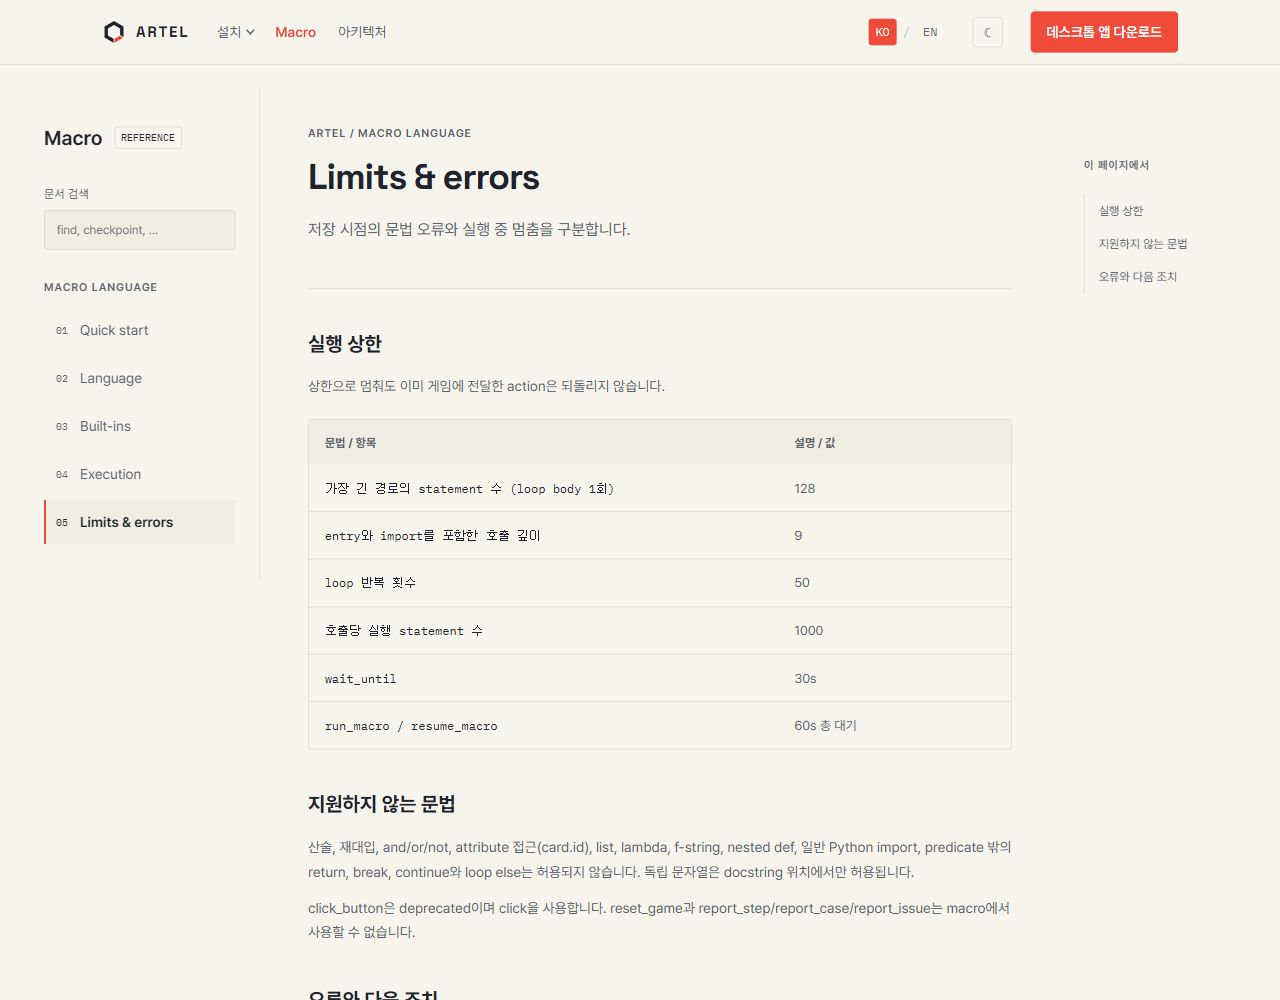
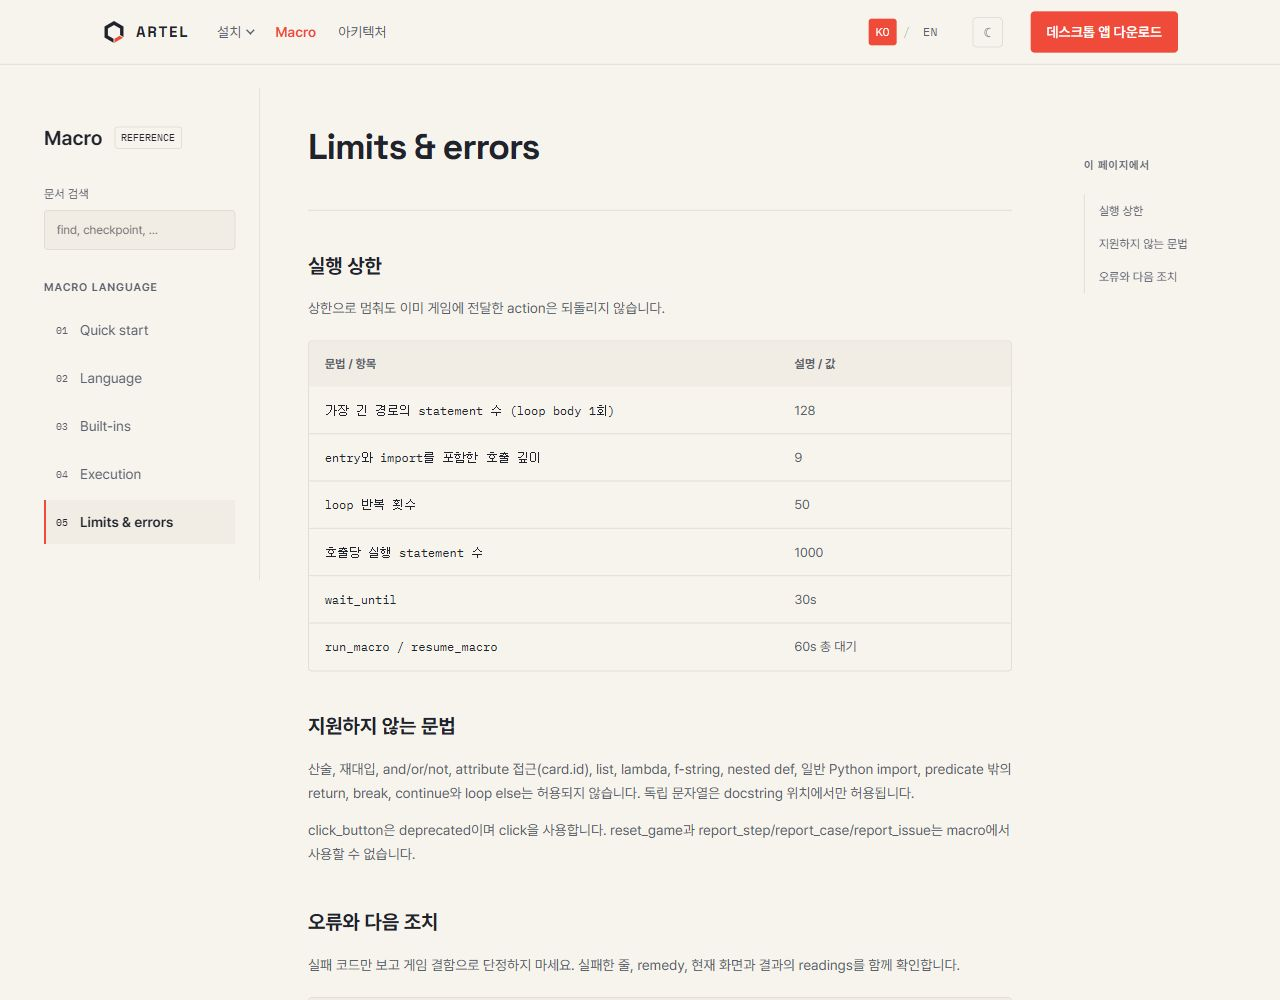
fix(docs): 제목을 반복하는 소개 문구를 삭제한다

diff --git a/src/macro/content.ts b/src/macro/content.ts
@@ -15,16 +15,16 @@ export function macroContent(locale: Locale): Record<MacroPageId, MacroPage> {
   return {
     'quick-start': {
       title: 'Quick start',
-      description: tr('반복할 게임 조작을 하나의 macro로 작성하고 등록합니다.', 'Write and register a reusable sequence of game actions.'),
+      description: tr('Macro 작성, 등록, 실행 예제', 'Macro authoring, registration and execution examples'),
       sections: [
-        section('overview', tr('Macro의 실행 방식', 'How macros run'), [tr('Macro는 Python처럼 쓰는 제한된 DSL입니다. Python 코드로 실행하지 않으며, Python 표준 라이브러리를 사용할 수 없습니다.', 'A macro is a restricted DSL with Python-like syntax. It does not execute as Python and cannot use the Python standard library.'), tr('selector 경로, 객체 이름, label, scene과 member key는 예시이므로 연결한 게임의 실제 값으로 바꾸세요. 문법 검증이 게임에서의 성공을 보장하지는 않습니다.', 'Selector paths, object names, labels, scenes and member keys are illustrative: replace them with values from your connected game. Syntax validation does not guarantee success in a game.')]),
+        section('overview', tr('Macro의 실행 방식', 'How macros run'), [tr('Macro는 Python처럼 쓰는 제한된 DSL입니다. Python 코드로 실행하지 않으며, Python 표준 라이브러리를 사용할 수 없습니다.', 'A macro is a restricted DSL with Python-like syntax. It does not execute as Python and cannot use the Python standard library.'), tr('selector 경로, 객체 이름, label, scene과 member key는 예시이므로 연결한 게임의 실제 값으로 바꾸세요.', 'Selector paths, object names, labels, scenes and member keys are illustrative: replace them with values from your connected game.')]),
         section('first-macro', tr('첫 macro 작성', 'Write your first macro'), [tr('이름은 open_inventory로 지정합니다. 같은 이름의 entry def와 -> None이 필요합니다. 첫 docstring은 등록에 필수이며 검색과 선택에 사용되는 summary가 됩니다.', 'Name this macro open_inventory. The entry def must have the same name and return -> None. Its opening docstring is required for registration and becomes the summary used for discovery and selection.')], examples.open_inventory),
         section('register', tr('초안 저장과 등록', 'Save and register'), [tr('QA agent의 write_macro에 name과 source를 전달하면 draft를 저장하고 문법을 확인합니다. 이 단계에서는 게임을 조작하지 않습니다. register_macro로 등록해야 run_macro가 호출할 수 있습니다.', 'The QA agent tool write_macro accepts name and source, stores a draft and checks syntax without acting on the game. Register it with register_macro before calling run_macro.'), tr('수정은 edit_macro → register_macro 순서입니다. draft만 수정하면 기존 등록 버전이 계속 실행됩니다. screens를 지정할 때는 scene 이름 대신 content map의 screen ID를 사용합니다.', 'Edit with edit_macro, then register_macro. Changing only a draft leaves the previously registered version active. The screens argument uses content-map screen IDs, not scene names.')]),
         section('run', tr('실행과 결과 확인', 'Run and inspect'), [tr('run_macro의 name에 open_inventory를 지정하고, 이 예제처럼 parameter가 없으면 arguments는 빈 객체로 전달합니다. parameter가 있다면 이름별 값을 전달하고 object에는 좌표나 #id 대신 selector를 사용합니다.', 'Call run_macro with name open_inventory and an empty arguments object for this parameterless example. For parameterized macros, supply values by name; object parameters take selectors, not coordinates or #ids.'), tr('결과에서 실행된 action, 건너뛴 branch, flag와 실패 위치를 확인합니다. PAUSED이면 화면을 확인하고 resume_macro의 proceed를 true로 전달해 계속하거나 false로 중단합니다.', 'Inspect actions sent, skipped branches, flags and the failure location. For PAUSED, inspect the screen, then use resume_macro with proceed true to continue or false to stop.')]),
       ],
     },
     language: {
-      title: 'Language', description: tr('타입, 조건, 반복, helper와 import의 문법을 확인합니다.', 'Syntax for types, conditions, loops, helpers and imports.'),
+      title: 'Language', description: tr('Macro 타입, 조건문, 반복문, helper, import 문법', 'Syntax for types, conditions, loops, helpers and imports.'),
       sections: [
         section('types', tr('선언과 타입', 'Declarations and types'), [tr('모든 parameter와 대입에는 타입을 명시합니다. 선언할 수 있는 타입은 아래와 같습니다. string은 str과 다릅니다. entry와 action helper는 -> None, predicate는 -> bool을 사용합니다.', 'Every parameter and assignment needs an explicit type. The declarable types are listed below: use string, not str. Entries and action helpers return -> None; predicates return -> bool.'), tr('이름은 한 번만 대입합니다. 대입의 오른쪽에는 find, selector, literal 또는 reader 호출을 사용할 수 있습니다. reader로 읽어 저장한 값은 그 시점의 값이며 자동 갱신되지 않습니다.', 'Names are assigned once. Assignment values may be find, selector, a literal or a reader call. A bound reader value is a snapshot and does not refresh automatically.')], examples.check_damage, grammar.types.map(t => [t, t === 'object' ? tr('게임 객체를 가리키는 target', 'A game-object target') : tr('타입을 명시한 값', 'An explicitly typed value')])),
         section('conditions', tr('조건과 비교', 'Conditions and comparisons'), [tr('조건은 비교 하나, bool reader, predicate 또는 ask 호출 하나입니다. and/or/not과 chained comparison은 허용되지 않습니다. and가 필요하면 require를 나눠 쓰고, or는 predicate의 여러 if로 표현합니다.', 'A condition is one comparison, a boolean reader, a predicate or ask. and/or/not and chained comparisons are not supported. Split conjunctions into separate require calls; express alternatives through multiple if branches in a predicate.'), tr('서로 다른 shape의 비교는 false가 아니라 오류입니다. int와 float는 모두 number로 비교합니다. object의 같음은 객체 identity 기준입니다. 연속값은 소수점 반올림의 영향을 받으므로 == 대신 범위를 검사하세요.', 'Comparing different shapes is an error, not false. int and float both compare as numbers. Object equality uses object identity. For continuous values, check a range instead of == because values are rounded.')], undefined, grammar.operators.map(row => [row.shape, row.operators.join('  ') || tr('비교 불가', 'No comparisons')])),
@@ -35,7 +35,7 @@ export function macroContent(locale: Locale): Record<MacroPageId, MacroPage> {
       ],
     },
     'built-ins': {
-      title: 'Built-ins', description: tr('객체 탐색, 상태 읽기, 게임 조작의 signature를 확인합니다.', 'Signatures for target lookup, state readers and game actions.'),
+      title: 'Built-ins', description: tr('Macro 객체 탐색, reader, action reference', 'Signatures for target lookup, state readers and game actions.'),
       sections: [
         section('targets', tr('객체 탐색', 'Target lookup'), [tr('find는 keyword만 받으며 label 또는 name 중 하나 이상이 필요합니다. label은 표시 텍스트, name은 selector의 마지막 segment, under는 경로 prefix입니다. 0개 또는 여러 객체가 일치하면 실행이 멈춥니다.', 'find accepts keywords only and requires label or name. label matches visible text; name matches the last selector segment; under narrows by path prefix. Zero or multiple matches stop execution.'), tr('selector는 게임의 hierarchy path를 받습니다. find_all은 loop 또는 Jev context에서 사용하며 일반 변수에 list로 저장할 수 없습니다. under는 ask/decide context에서 해당 객체와 하위 객체를 포함합니다.', 'selector takes a game hierarchy path. find_all is available in loops or Jev context, not as a list assignment. under includes an object and its descendants in ask/decide context.')], undefined, [
           ['find(label=..., name=..., under=...)', 'object'], ['selector("hierarchy/path")', 'object'], ['find_all(label=..., name=..., under=...)', tr('loop / Jev context 전용', 'Loops / Jev context only')], ['under("path") / under(target)', 'Jev context'],
@@ -45,7 +45,7 @@ export function macroContent(locale: Locale): Record<MacroPageId, MacroPage> {
       ],
     },
     execution: {
-      title: 'Execution', description: tr('검증, 기다리기, 일시 중지와 모델의 판단을 구성합니다.', 'Compose checks, waits, pauses and model decisions.'),
+      title: 'Execution', description: tr('require, wait_until, checkpoint, ask, decide 실행 규칙', 'Execution rules for require, wait_until, checkpoint, ask and decide'),
       sections: [
         section('checks', tr('검증과 기다리기', 'Checks and waiting'), [tr('require(condition, "remedy")는 현재 조건을 확인하고 false이면 멈춥니다. remedy는 agent가 실패 후 무엇을 해야 하는지 설명하는 필수 문자열입니다.', 'require(condition, "remedy") checks the current condition and stops if false. The required remedy string tells the agent what to do after failure.'), tr(`wait_until(condition, seconds, "remedy")는 즉시 확인한 뒤 새 pulse마다 다시 확인합니다. seconds는 0보다 크고 ${l.MAX_WAIT_PER_STATEMENT_SECONDS} 이하인 숫자 literal입니다. ask는 조건으로 쓸 수 없습니다. 한 run/resume 호출의 총 대기 상한은 ${l.MAX_WAIT_PER_CALL_SECONDS}초입니다.`, `wait_until(condition, seconds, "remedy") checks immediately, then on each new pulse. seconds must be a numeric literal greater than zero and at most ${l.MAX_WAIT_PER_STATEMENT_SECONDS}. ask is not allowed here. Total waiting per run/resume call is capped at ${l.MAX_WAIT_PER_CALL_SECONDS} seconds.`)], examples.open_inventory),
         section('checkpoint', tr('중지와 판정 요청', 'Pauses and verdict requests'), [tr('checkpoint("message")는 실패가 아닌 PAUSED를 반환합니다. resume_macro(proceed=true)는 저장된 binding을 유지하고 다음 줄부터 계속하며, false는 추가 조작 없이 중단합니다.', 'checkpoint("message") returns PAUSED rather than failure. resume_macro with proceed=true preserves bindings and continues at the next line; false stops without further actions.'), tr('flag("message")는 관찰 내용을 남기고 ask_verdict("expected")는 현재 step의 판정이 필요함을 알립니다. macro가 verdict를 직접 결정하거나 report_step/report_case/report_issue를 호출하지는 않습니다.', 'flag("message") records an observation; ask_verdict("expected") requests judgment for the current step. Macros do not decide verdicts or call report_step/report_case/report_issue.')], examples.inspect_inventory),
@@ -55,7 +55,7 @@ export function macroContent(locale: Locale): Record<MacroPageId, MacroPage> {
       ],
     },
     limits: {
-      title: 'Limits & errors', description: tr('저장 시점의 문법 오류와 실행 중 멈춤을 구분합니다.', 'Distinguish syntax rejection from runtime failures.'),
+      title: 'Limits & errors', description: tr('Macro 실행 상한과 오류 코드', 'Macro execution limits and error codes'),
       sections: [
         section('budgets', tr('실행 상한', 'Execution budgets'), [tr('상한으로 멈춰도 이미 게임에 전달한 action은 되돌리지 않습니다.', 'Reaching a limit does not undo actions already sent to the game.')], undefined, [
           [tr('가장 긴 경로의 statement 수 (loop body 1회)', 'Statements on longest path (loop body counted once)'), String(l.MAX_STATEMENTS)],

diff --git a/src/styles/macro-reference.css b/src/styles/macro-reference.css
@@ -29,11 +29,9 @@
 .macro-docs__rail nav a span { font: 10px var(--font-mono); }
 .macro-docs__rail nav a[aria-current="page"] { border-left-color: var(--doc-accent); color: var(--doc-text); font-weight: 600; background: var(--doc-raised); }
 .macro-docs__rail nav a:hover, .macro-docs__results a:hover { background: var(--doc-raised); color: var(--doc-text); }
-.macro-docs__rail-note { margin-top: 48px; padding-top: 20px; border-top: 1px solid var(--doc-border); font-size: 12px; color: var(--doc-secondary); }
 .macro-docs__article { min-width: 0; padding: 48px 48px 64px; }
 .macro-docs__heading { border-bottom: 1px solid var(--doc-border); padding-bottom: 28px; margin-bottom: 32px; }
 .macro-docs__heading h1 { font-family: var(--font-display); margin: 12px 0; font-size: clamp(28px, 3vw, 36px); line-height: 1.25; letter-spacing: -.03em; }
-.macro-docs__heading > p:last-child { font-size: 16px; color: var(--doc-secondary); }
 .macro-docs__section { scroll-margin-top: 110px; margin: 40px 0; }
 .macro-docs__section h2 { font-size: 20px; line-height: 1.5; margin-bottom: 16px; }
 .macro-docs__section h2 span { color: var(--doc-text); opacity: 0; }
@@ -57,8 +55,6 @@
 .macro-docs__toc nav { border-left: 1px solid var(--doc-border); margin-top: 20px; }
 .macro-docs__toc a { display: block; min-height: 32px; padding: 6px 14px; font-size: 12px; color: var(--doc-secondary); }
 .macro-docs__toc a:hover { color: var(--doc-text); }
-.macro-docs__source { display: grid; gap: 6px; margin-top: 40px; border-top: 1px solid var(--doc-border); padding-top: 20px; color: var(--doc-secondary); }
-.macro-docs__source span { font-size: 10px; letter-spacing: .06em; }
 .macro-docs__pager { display: flex; justify-content: space-between; gap: 20px; border-top: 1px solid var(--doc-border); padding-top: 24px; }
 .macro-docs__pager a { min-height: 44px; color: var(--doc-text); }
 .macro-docs__pager small, .macro-docs__results small { display: block; color: var(--doc-secondary); font-size: 11px; }

diff --git a/src/pages/MacroReferencePage.tsx b/src/pages/MacroReferencePage.tsx
@@ -40,9 +40,7 @@ export function MacroReferencePage({ pageId }: { pageId: MacroPageId }) {
 
       <article className="macro-docs__article">
         <header className="macro-docs__heading">
-          <p className="macro-docs__label">ARTEL / MACRO LANGUAGE</p>
           <h1>{page.title}</h1>
-          <p>{page.description}</p>
         </header>
         <nav className="macro-docs__mobile-toc" aria-label={locale === 'ko' ? '이 페이지의 목차' : 'On this page'}>
           {page.sections.map(s => <a key={s.id} href={`#${s.id}`}>{s.title}</a>)}
